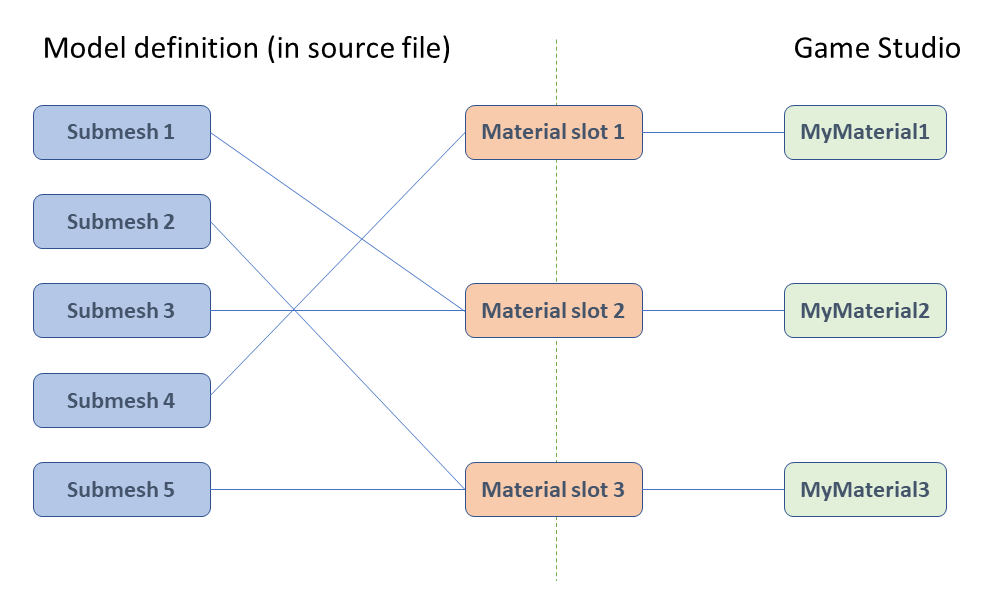
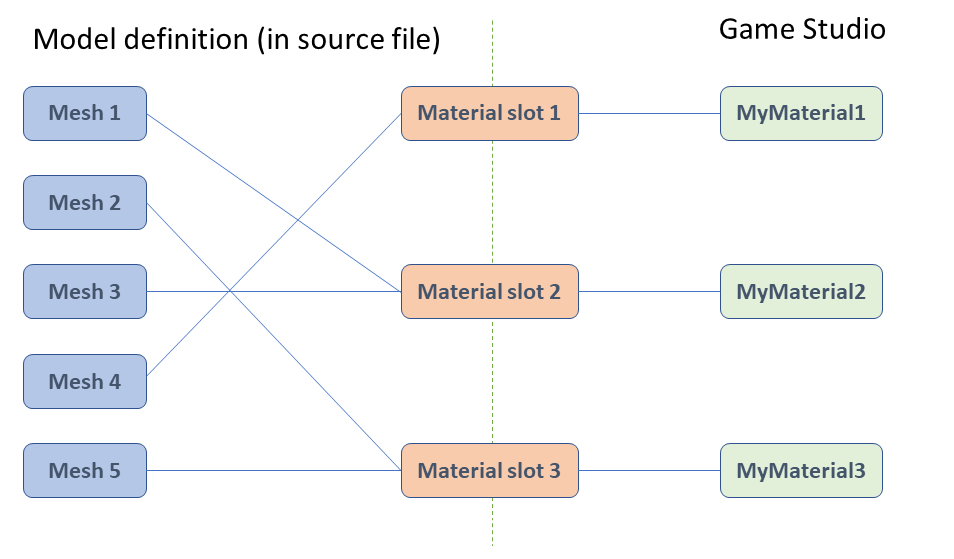
[Materials] Rename submeshes to meshes, update images

diff --git a/en/manual/graphics/materials/material-slots.md b/en/manual/graphics/materials/material-slots.md
@@ -31,15 +31,15 @@ You can change the materials a model uses in two places:
 
      This only affects **this** instance or prefab.
 
-## Submeshes and material slots
+## Meshes and material slots
 
-Models imported from modeling software can contain smaller meshes (**submeshes**). Submeshes can share materials via material slots.
+Models imported from modeling software can contain multiple meshes. Meshes can share materials via material slots.
 
 ![Mesh](media/material-slot-diagram-1.png)
 
-The association between a submesh and a material slot is defined in the model source file. You can't change these associations in Game Studio, but you can change them in code at runtime.
+The association between a mesh and a material slot is defined in the model source file. You can't change these associations in Game Studio, but you can change them in code at runtime.
 
-To change the association between a submesh and a material, use:
+To change the association between a mesh and a material, use:
 
 ```cs
 MyModelComponent.Model.Meshes[submeshIndex].MaterialIndex = materialIndex;
@@ -51,28 +51,28 @@ To change or add a material to the list of materials:
 MyModelComponent.Materials[ExistingOrNewMaterialIndex] = myMaterial;
 ```
 
-### Merging submeshes
+### Merging meshes
 
-When Xenko draws a model with submeshes, it performs one GPU draw call for each mesh. By default, to improve performance, at build time, Xenko merges submeshes that share materials.
+When Xenko draws a model with meshes, it performs one GPU draw call for each mesh. By default, to improve performance, at build time, Xenko merges meshes that share materials.
 
 ![Mesh](media/material-slot-diagram-2.png)
 
-In the example above, there are five submeshes and five draw calls. After merging, there are three submeshes and three draw calls.
+In the example above, there are five meshes and five draw calls. After merging, there are three meshes and three draw calls.
 
 >[!Note]
->When Xenko merges submeshes, it merges the vertex and index buffers. This means you can't draw the submeshes separately at runtime, and you can't change the original submesh position (transformation matrix). The submeshes become a single mesh with a single material and a single transformation matrix (relative to the model).
+>When Xenko merges meshes, it merges the vertex and index buffers. This means you can't draw the meshes separately at runtime, and you can't change the original mesh position (transformation matrix). The meshes become a single mesh with a single material and a single transformation matrix (relative to the model).
 
 >[!Note]
->When Xenko merges submeshes, it changes the draw order of elements. In the case of transparent materials, this can produce different results.
+>When Xenko merges meshes, it changes the draw order of elements. In the case of transparent materials, this can produce different results.
 
 >[!Note]
->When you create a [physics collider from a model](../../physics/collider-shapes.md), Xenko builds separate convex hulls for each submesh in the model. If the submeshes are merged, only one submesh remains per material, so convex hulls are also built from merged submeshes.
+>When you create a [physics collider from a model](../../physics/collider-shapes.md), Xenko builds separate convex hulls for each mesh in the model. If the meshes are merged, only one mesh remains per material, so convex hulls are also built from merged meshes.
 
 ### Disable merging
 
-To disable merging for specific submeshes, enable their corresponding **nodes**.
+To disable merging for specific meshes, enable their corresponding **nodes**.
 
-1. Select the model that contains the submeshes.
+1. Select the model that contains the meshes.
 
 2. In the **Property grid**, under **Skeleton**, make sure the model has a skeleton associated with it.
 
@@ -84,12 +84,12 @@ To disable merging for specific submeshes, enable their corresponding **nodes**.
 
     ![Select model skeleton](media/select-model-skeleton.png)
 
-4. In the **Property grid**, under **Nodes**, select the nodes that correspond to the submeshes you don't want to merge.
+4. In the **Property grid**, under **Nodes**, select the nodes that correspond to the meshes you don't want to merge.
 
     ![Nodes](media/select-model-skeleton-nodes.png)
 
     >[!Tip]
-    >To see which nodes correspond to which submesh, open the model source file in a modeling application such as Maya.
+    >To see which nodes correspond to which mesh, open the model source file in a modeling application such as Maya.
 
     >[!Note]
     >Make sure you don't disable nodes that are animated at runtime.
